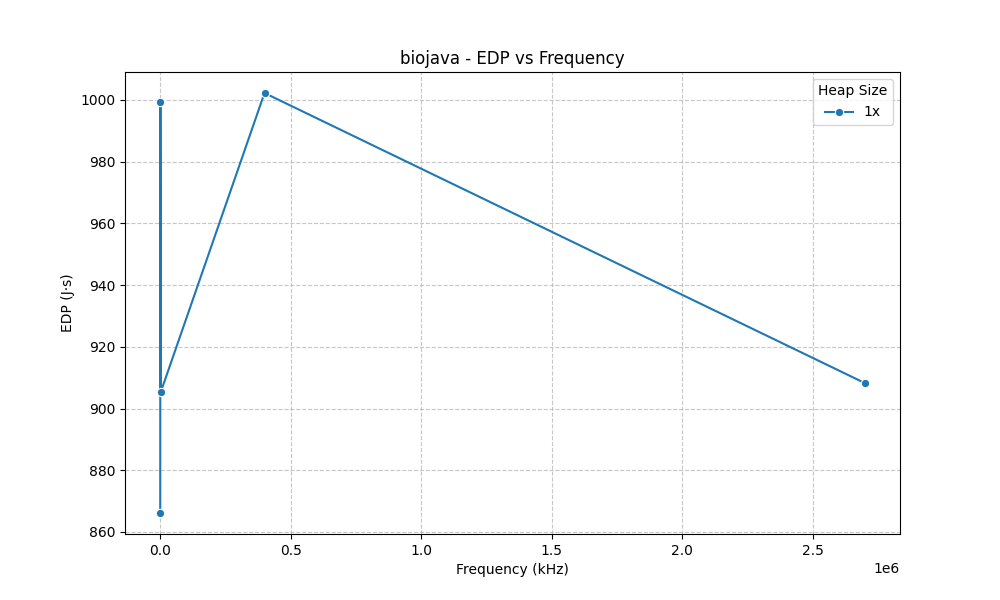
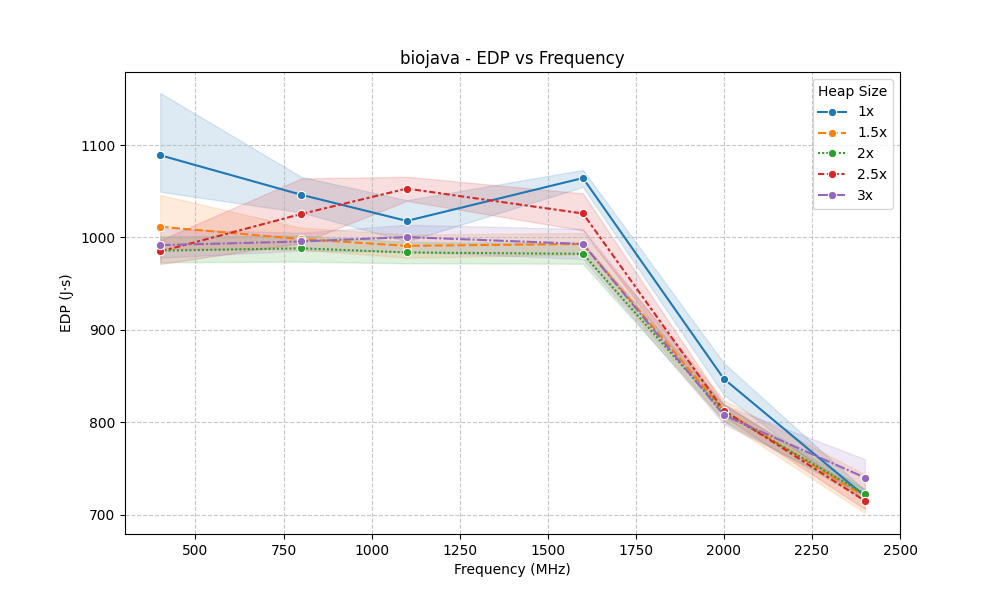
feat: update analisys scripts

diff --git a/generate_graphs.py b/generate_graphs.py
@@ -64,9 +64,9 @@ def main():
         )
         
         # Convert Frequency to MHz
-        # Note: Assuming current data is in kHz as per CSV header
-        bench_df['Frequency (MHz)'] = bench_df['CPU Frequency (kHz)'] / 1000.0
-
+        # The column is already in MHz now
+        bench_df['Frequency (MHz)'] = bench_df['CPU Frequency (MHz)'] 
+        
         # Sort for consistent plotting
         bench_df = bench_df.sort_values(by=['Frequency (MHz)', 'Heap Size MB'])
 
@@ -75,16 +75,44 @@ def main():
             {
                 'y_col': 'EDP Mean',
                 'y_label': 'EDP (J⋅s)',
+                'ci_low': 'EDP CI 95% Low',
+                'ci_high': 'EDP CI 95% High',
                 'title': f'{benchmark} - EDP vs Frequency',
                 'filename': f'{benchmark}_edp.png'
             },
             {
                 'y_col': 'EDP2 Mean',
-                'y_label': 'EDP² (J⋅s²)',
-                'title': f'{benchmark} - EDP² vs Frequency',
+                'y_label': 'E²DP (J²⋅s)',
+                'ci_low': 'EDP2 CI 95% Low',
+                'ci_high': 'EDP2 CI 95% High',
+                'title': f'{benchmark} - E²DP vs Frequency',
                 'filename': f'{benchmark}_edp2.png'
+            },
+            {
+                'y_col': 'Package Joules Mean',
+                'y_label': 'Energy (Joules)',
+                'ci_low': 'Package Joules CI 95% Low',
+                'ci_high': 'Package Joules CI 95% High',
+                'title': f'{benchmark} - Energy vs Frequency',
+                'filename': f'{benchmark}_energy.png'
+            },
+            {
+                'y_col': 'Time Elapsed Mean (ms)',
+                'y_label': 'Time (ms)',
+                'ci_low': 'Elapsed Time CI 95% Low',
+                'ci_high': 'Elapsed Time CI 95% High',
+                'title': f'{benchmark} - Time vs Frequency',
+                'filename': f'{benchmark}_time.png'
             }
         ]
+
+        # Get sorted heap labels for consistent coloring
+        heap_info = bench_df[['Heap Label', 'Heap Size MB']].drop_duplicates().sort_values('Heap Size MB')
+        heap_order = heap_info['Heap Label'].tolist()
+        
+        # Create palette
+        palette = sns.color_palette("tab10", len(heap_order))
+        label_to_color = dict(zip(heap_order, palette))
 
         for config in plot_configs:
             plt.figure(figsize=(10, 6))
@@ -96,9 +124,24 @@ def main():
                 x='Frequency (MHz)',
                 y=config['y_col'],
                 hue='Heap Label',
+                hue_order=heap_order,
+                palette=label_to_color,
                 marker='o',
-                style='Heap Label'
+                style='Heap Label',
+                style_order=heap_order
             )
+            
+            # Add Confidence Intervals
+            for label in heap_order:
+                subset = bench_df[bench_df['Heap Label'] == label].sort_values('Frequency (MHz)')
+                if not subset.empty:
+                    plt.fill_between(
+                        subset['Frequency (MHz)'],
+                        subset[config['ci_low']],
+                        subset[config['ci_high']],
+                        color=label_to_color[label],
+                        alpha=0.15  # Tuned opacity (was 0.2)
+                    )
             
             plt.title(config['title'])
             plt.xlabel('Frequency (MHz)')
@@ -116,4 +159,3 @@ def main():
 
 if __name__ == "__main__":
     main()
-

diff --git a/process_energy.py b/process_energy.py
@@ -41,8 +41,8 @@ def main():
     # EDP = Package Joules * Time
     df['edp'] = df['package_j'] * df['time_s']
     
-    # EDP2 = Package Joules * Time^2
-    df['edp2'] = df['package_j'] * (df['time_s'] ** 2)
+    # EDP2 = Package Joules^2 * Time (Giving energy greater weight)
+    df['edp2'] = (df['package_j'] ** 2) * df['time_s']
 
     # Columns to analyze
     metrics = {
@@ -55,7 +55,7 @@ def main():
     }
 
     # Grouping columns
-    group_cols = ['benchmark', 'heap_size', 'cpu_freq_khz']
+    group_cols = ['benchmark', 'heap_size', 'cpu_freq_mhz']
     
     # Result storage
     results = []
@@ -64,12 +64,12 @@ def main():
     grouped = df.groupby(group_cols)
 
     for name, group in grouped:
-        benchmark, heap_size, cpu_freq_khz = name
+        benchmark, heap_size, cpu_freq_mhz = name
         
         row = {
             'Benchmark': benchmark,
             'Heap Size': heap_size,
-            'CPU Frequency (kHz)': cpu_freq_khz
+            'CPU Frequency (MHz)': cpu_freq_mhz
         }
         
         for metric_col, metric_name in metrics.items():
@@ -104,11 +104,11 @@ def main():
     result_df = pd.DataFrame(results)
     
     # Sort
-    result_df = result_df.sort_values(by=['Benchmark', 'Heap Size', 'CPU Frequency (kHz)'])
+    result_df = result_df.sort_values(by=['Benchmark', 'Heap Size', 'CPU Frequency (MHz)'])
     
     # Select and Reorder columns to match requirements
     columns_order = [
-        'Benchmark', 'Heap Size', 'CPU Frequency (kHz)',
+        'Benchmark', 'Heap Size', 'CPU Frequency (MHz)',
         'Time Elapsed Mean (ms)', 
         'DRAM Joules Mean', 
         'CPU Joules Mean', 
